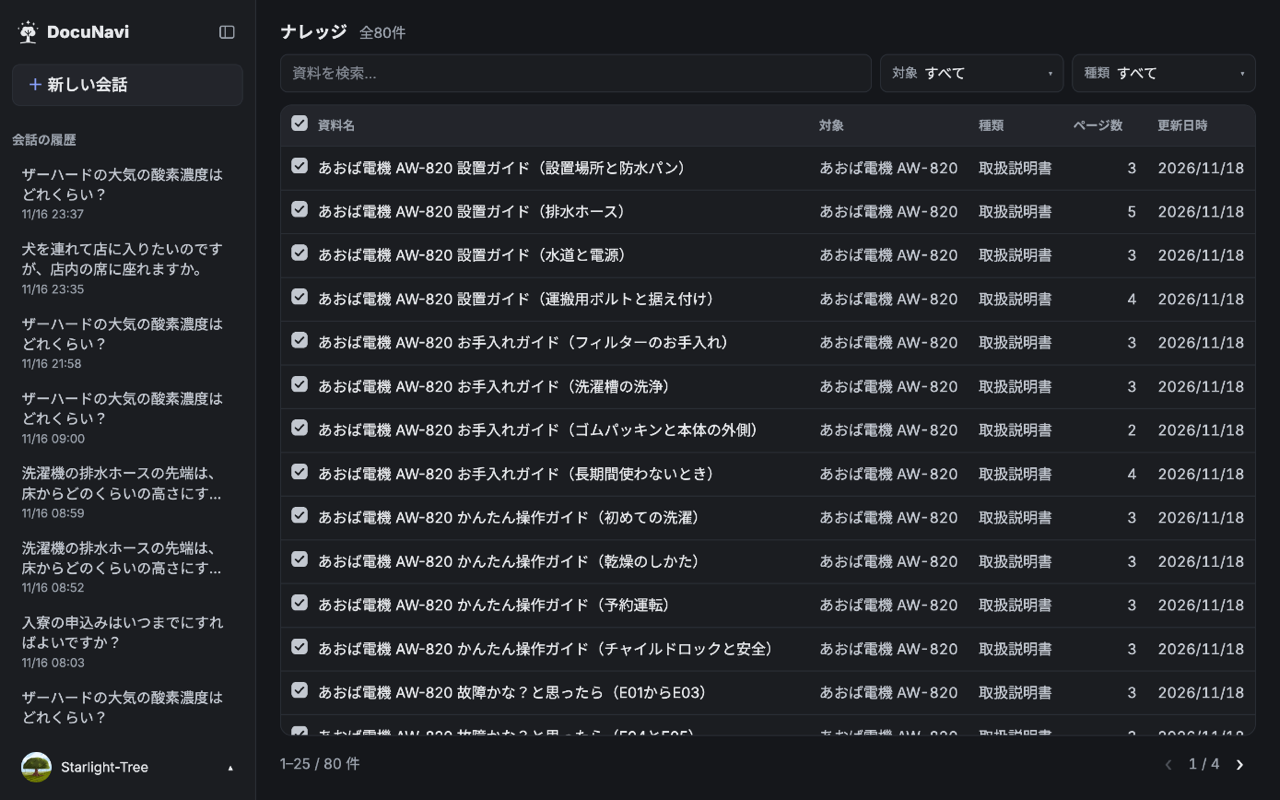
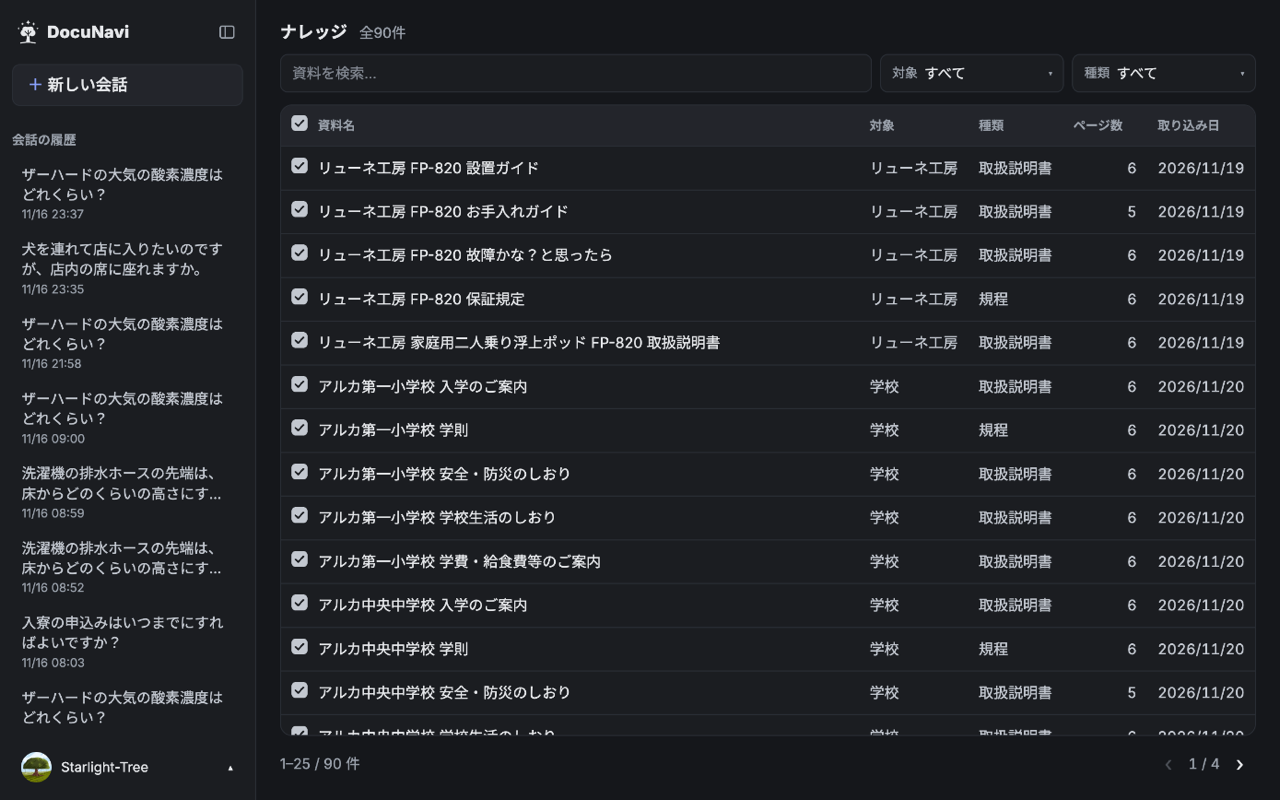
docs(readme): retake documents screenshots with the renamed date column
The documents list screenshots still showed the old "更新日時" header; the column is now "取り込み日" (33c21a2). Retaken light and dark from the local dev stack: logged-in test user, default sort, iframe at 1280x800, cursor outside the capture, resized to exactly 1280x800 with sips. The local DB now holds 90 documents (was 80), so the rows and dates differ from the old images. backlog.md records the retake. Not checked: the deployed UI.

diff --git a/docs/backlog.md b/docs/backlog.md
@@ -35,7 +35,7 @@
 | 項目 | 状態（日付つき） | 次の一手 |
 |---|---|---|
 | ヒーロー画像の基盤（`app/hero_images/`、`document_images`、`GET /documents/{id}/hero`、星庭ジョブ）を**続けるか止めるか**が未決定 | 2026-11-20 にリポジトリを読んで確かめた（等級 A）。基盤のコードは残っている: `app/hero_images/`（運用者用の取り込み・承認）、`app/api/documents.py` の `/hero` と一覧の `hero_image`、`db/migrations/0001_schema.sql` の `document_images`。画面は取得も表示もしない（2026-11-03 の再設計。`frontend/src` に `/hero` を取るコードは無く、`DocumentsApp.test.tsx` が取りに行かないことを確かめる）。[image-generation-design.md](image-generation-design.md) に「基盤を続けるか止めるかは未決定。廃止したのではない」とある。承認済みの画像が DB と R2 に残っているかは、DB・R2 を読んでいないので未確認。`roadmap.md` に項目は無い | 続けるなら、画面への再表示の設計と、`docunavi-app` で画像生成を動かすかの決定（同文書の D1）が要る。止めるなら、API・表・星庭ジョブ側のどこまでを消すかを `docs/decisions/` に残してから決める（消す前に参照を grep する） |
-| 資料の版・発行日（「初版」「改訂 2」「2026年4月1日時点」など）を持つか | **2026-11-19 に、ユーザーが「進める」と決定。** 実装は `main` に入っている（仕様は [architecture.md](architecture.md) の `app/ingestion/` の行）。版は人が明示した値だけで、現行の版のラベル（改訂が出たら旧版は上書きして物理削除する運用なので、版違いは併存しない）。モックは、2026-11-19 にユーザーが承認して省略。本番への反映は未確認（本番 DB は Prisma Free の上限に近く、現在の状態が未確認。[roadmap.md](roadmap.md)）。検証環境（AlloyDB Express）には、`0006` を 2026-11-19 に適用し、API を `402f3ed`、画面の Worker `docunavi-gcp-web` を `2da7f13`（版の表示を含む）へ、どちらも同日に更新済み（[architecture.md](architecture.md) の「検証環境（AlloyDB Express）」。ログイン後の画面の表示は未確認）。未了は 2 点: 一覧の列「更新日時」の扱いが未決。ヘッダー変更の Before/After スクリーンショットが未取得（2026-11-19 時点）。**2026-11-22 に、ユーザーが列の見出しを「取り込み日」へ改名すると決定**（理由: この列が示すのは資料の更新日ではなく、取り込みの日時のため。表示の文言だけで、API の `updated_at` と型は変えない）。画面の文言は作業ツリーで変更済み（未コミット・未配備）。README のスクリーンショット（`docs/images/documents.png`・`documents-dark.png`）は、見出しが「更新日時」のままで、撮り直していない | 本番 DB の復旧（2026-12 の Prisma 使用量の確認後。[roadmap.md](roadmap.md)）のあとに、別々の承認で: (1) `0006` の適用（**API・取り込み Job 2 本を配備する前に**。本番で適用済みかは未確認で、未適用とみられる〔[architecture.md](architecture.md)〕ので、先に確かめる）、(2) `revisions.csv` を R2 に置く（`python -m app.r2_store upload`）、(3) 配備、(4) 画面で確認 |
+| 資料の版・発行日（「初版」「改訂 2」「2026年4月1日時点」など）を持つか | **2026-11-19 に、ユーザーが「進める」と決定。** 実装は `main` に入っている（仕様は [architecture.md](architecture.md) の `app/ingestion/` の行）。版は人が明示した値だけで、現行の版のラベル（改訂が出たら旧版は上書きして物理削除する運用なので、版違いは併存しない）。モックは、2026-11-19 にユーザーが承認して省略。本番への反映は未確認（本番 DB は Prisma Free の上限に近く、現在の状態が未確認。[roadmap.md](roadmap.md)）。検証環境（AlloyDB Express）には、`0006` を 2026-11-19 に適用し、API を `402f3ed`、画面の Worker `docunavi-gcp-web` を `2da7f13`（版の表示を含む）へ、どちらも同日に更新済み（[architecture.md](architecture.md) の「検証環境（AlloyDB Express）」。ログイン後の画面の表示は未確認）。未了は 2 点: 一覧の列「更新日時」の扱いが未決。ヘッダー変更の Before/After スクリーンショットが未取得（2026-11-19 時点）。**2026-11-22 に、ユーザーが列の見出しを「取り込み日」へ改名すると決定**（理由: この列が示すのは資料の更新日ではなく、取り込みの日時のため。表示の文言だけで、API の `updated_at` と型は変えない）。画面の文言は `33c21a2` でコミット・プッシュ済み（未配備）。README のスクリーンショット（`docs/images/documents.png`・`documents-dark.png`）は、2026-11-22 に見出し「取り込み日」で撮り直した（ローカルの開発スタック。資料は 90 件で、前の画像の 80 件から増えている） | 本番 DB の復旧（2026-12 の Prisma 使用量の確認後。[roadmap.md](roadmap.md)）のあとに、別々の承認で: (1) `0006` の適用（**API・取り込み Job 2 本を配備する前に**。本番で適用済みかは未確認で、未適用とみられる〔[architecture.md](architecture.md)〕ので、先に確かめる）、(2) `revisions.csv` を R2 に置く（`python -m app.r2_store upload`）、(3) 配備、(4) 画面で確認 |
 
 ## 測ってから決める
 
